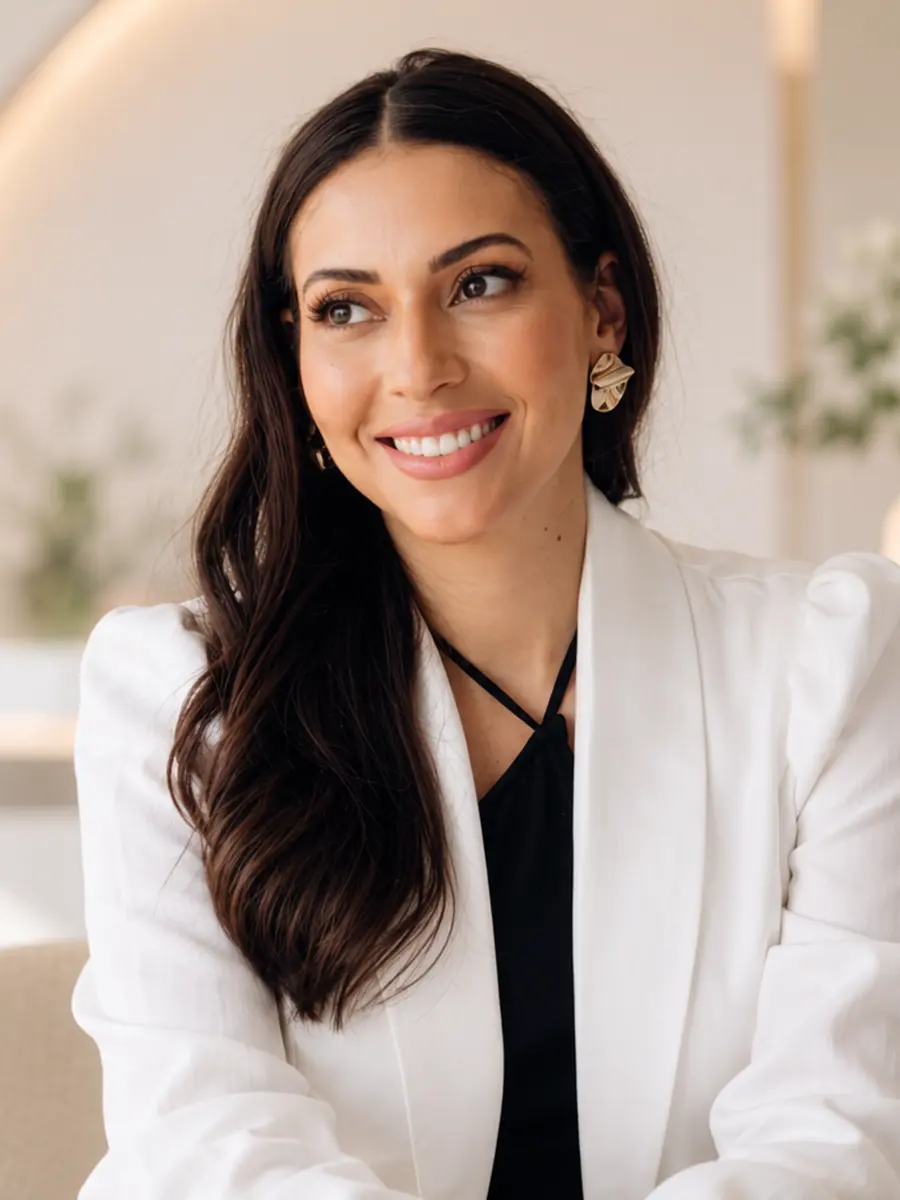
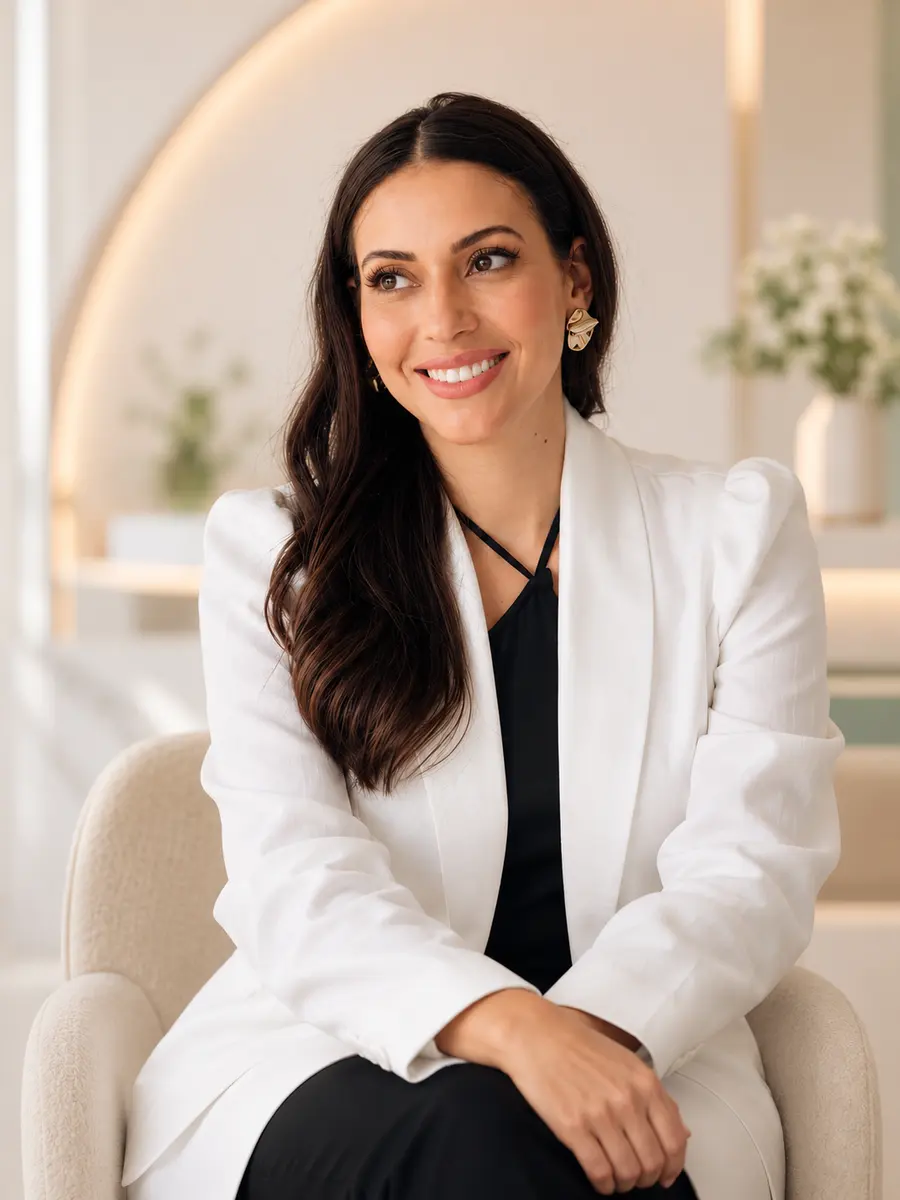
auto: 2026-11-03 20:37:51 (7 arquivo(s))

diff --git a/src/components/sections/Hero.tsx b/src/components/sections/Hero.tsx
@@ -43,14 +43,14 @@ const ordem = (i: number) => ({ '--i': i }) as CSSProperties;
  * - desktop e tablet deitado: camada de fundo absoluta, 16:9 em cover, que
  *   comeca ABAIXO do menu flutuante (top 88px), para o menu nao cobrir o
  *   rosto (nov/2026); o topo da foto esfuma no creme (.hero-foto-desce);
- * - celular e tablet em pe: recorte vertical 3:4 abaixo do texto, com o topo
- *   em arco.
+ * - celular e tablet em pe: foto vertical propria (3:4) em tela cheia, abaixo
+ *   do menu, com o texto centralizado sobre um veu creme na base (nov/2026).
  *
  * E o LCP: fetchPriority alto, sem lazy, e preload no <head> (app/page.tsx).
  */
 function HeroFoto() {
   return (
-    <div className="hero-arco hero-foto-desce relative mx-6 mb-14 aspect-[3/4] overflow-hidden sm:mx-8 sm:max-w-[520px] hl:absolute hl:inset-x-0 hl:bottom-0 hl:top-[88px] hl:m-0 hl:max-w-none hl:aspect-auto hl:rounded-none">
+    <div className="hero-foto-desce absolute inset-x-0 bottom-0 top-14 overflow-hidden hl:top-[88px]">
       <picture>
         <source media={MEDIA_EMPILHADO} type="image/avif" srcSet={`${imagem.mobile}.avif`} />
         <source media={MEDIA_EMPILHADO} type="image/webp" srcSet={`${imagem.mobile}.webp`} />
@@ -62,7 +62,7 @@ function HeroFoto() {
           width={imagem.width}
           height={imagem.height}
           fetchPriority="high"
-          className="hero-foto h-full w-full object-cover object-[50%_20%] hl:object-[72%_10%] hlg:object-[70%_10%]"
+          className="hero-foto h-full w-full object-cover object-[50%_0%] hl:object-[72%_10%] hlg:object-[70%_10%]"
         />
       </picture>
     </div>
@@ -71,8 +71,8 @@ function HeroFoto() {
 
 /**
  * Hero: foto de fundo com a Dra. Natalia no terco direito e o texto a
- * esquerda, direto sobre a parede clara da foto — sem veu nem desfoque, por
- * pedido da clinica (out/2026). No mobile: texto em cima, foto embaixo.
+ * esquerda, com um veu branco suave so sob o texto. No mobile: foto vertical
+ * em tela cheia e o texto centralizado na base, sobre um veu creme.
  *
  * Sem `Reveal`: a entrada e CSS puro (@keyframes). O `Reveal` gravaria
  * `style="opacity:0"` no HTML estatico e atrasaria o LCP ate a hidratacao.
@@ -84,19 +84,19 @@ export function Hero() {
   return (
     <section
       id="inicio"
-      className="relative isolate overflow-hidden bg-cream hl:flex hl:min-h-[clamp(640px,100svh,920px)] hl:items-center"
+      className="relative isolate flex min-h-[100svh] flex-col justify-end overflow-hidden bg-cream hl:min-h-[clamp(640px,100svh,920px)] hl:flex-row hl:items-center hl:justify-start"
     >
-      <div className="relative z-10 mx-auto w-full max-w-[1200px] px-6 pb-10 pt-[104px] sm:px-8 hl:pb-16 hl:pt-[120px] hlg:px-12 paisagem:pb-8 paisagem:pt-[96px]">
-        <div className="max-w-[560px] hl:max-w-none">
+      <div className="relative z-10 mx-auto w-full max-w-[1200px] px-6 pb-8 pt-[max(38svh,330px)] text-center sm:px-8 hl:pb-16 hl:pt-[120px] hl:text-left hlg:px-12 paisagem:pb-8 paisagem:pt-[96px]">
+        <div className="mx-auto max-w-[560px] hl:mx-0 hl:max-w-none">
           <h1
-            className="hero-entra text-[2.125rem] font-bold leading-[1.08] text-ink hl:text-[2.75rem] hlg:text-[clamp(2.75rem,3.9vw,3.5rem)] paisagem:text-[clamp(1.875rem,3.6vw,3.25rem)]"
+            className="hero-entra text-[1.75rem] font-bold leading-[1.12] text-ink sm:text-[2.5rem] hl:text-[2.75rem] hlg:text-[clamp(2.75rem,3.9vw,3.5rem)] paisagem:text-[clamp(1.875rem,3.6vw,3.25rem)]"
             style={ordem(0)}
           >
             <Linhas linhas={hero.h1Linhas} destaque="text-magenta" />
           </h1>
 
           <p
-            className="hero-entra mt-8 text-[clamp(1rem,1.4vw,1.25rem)] font-light leading-[1.45] text-ink-muted paisagem:mt-5"
+            className="hero-entra mt-4 text-[0.9rem] font-light leading-[1.55] sm:text-[1.0625rem] text-ink-muted hl:mt-8 hl:text-[clamp(1rem,1.4vw,1.25rem)] hl:leading-[1.45] paisagem:mt-5"
             style={ordem(1)}
           >
             <Linhas linhas={hero.textoLinhas} destaque="font-medium text-ink" />
@@ -104,7 +104,7 @@ export function Hero() {
 
           {/* CTA unico de conversao (WhatsApp, com icone de agenda). O 2o botao
               do print ("Conheca a Experiencia Lien") saiu a pedido (out/2026). */}
-          <div className="hero-entra mt-10 flex flex-col gap-4 sm:flex-row sm:items-center paisagem:mt-7" style={ordem(2)}>
+          <div className="hero-entra mt-6 flex flex-col items-center gap-4 sm:flex-row sm:justify-center hl:mt-10 hl:justify-start paisagem:mt-7" style={ordem(2)}>
             <WhatsAppButton
               origem="hero"
               variante="capsula"
@@ -124,6 +124,12 @@ export function Hero() {
       <div
         aria-hidden="true"
         className="pointer-events-none absolute inset-0 z-[1] hidden bg-[linear-gradient(90deg,rgba(255,255,255,.72),rgba(255,255,255,.55)_32%,rgba(255,255,255,.2)_48%,rgba(255,255,255,0)_58%)] hl:block"
+      />
+      {/* Mobile: veu creme na base, sob o texto centralizado (claro e limpo,
+          sem desfoque); o rosto, no alto, fica livre. */}
+      <div
+        aria-hidden="true"
+        className="pointer-events-none absolute inset-0 z-[1] bg-[linear-gradient(180deg,rgba(250,248,246,0)_34%,rgba(250,248,246,.72)_52%,rgba(250,248,246,.93)_68%,#FAF8F6_86%)] hl:hidden"
       />
       <HeroFoto />
     </section>

diff --git a/app/globals.css b/app/globals.css
@@ -168,17 +168,11 @@
     }
   }
 
-  /* Foto do mobile: topo em arco (raio = metade da largura), eco do sorriso
-     da marca. Numa caixa 3:4, metade da largura = 37,5% da altura. */
-  /* Hero (desktop): a foto comeca abaixo do menu e esfuma no creme no topo. */
-  @media (min-width: 1280px), (min-width: 768px) and (orientation: landscape) {
-    .hero-foto-desce {
-      -webkit-mask-image: linear-gradient(to bottom, transparent, #000 56px);
-      mask-image: linear-gradient(to bottom, transparent, #000 56px);
-    }
-  }
-  .hero-arco {
-    border-radius: 50% 50% 28px 28px / 37.5% 37.5% 28px 28px;
+
+  /* Hero: a foto comeca abaixo do menu e esfuma no creme no topo. */
+  .hero-foto-desce {
+    -webkit-mask-image: linear-gradient(to bottom, transparent, #000 56px);
+    mask-image: linear-gradient(to bottom, transparent, #000 56px);
   }
 
   /* Entrada em sequencia: --i e a posicao do elemento (atraso de 80ms cada). */

diff --git a/RELATORIO-ALTERACOES.md b/RELATORIO-ALTERACOES.md
@@ -1127,3 +1127,21 @@ As passagens para os fundos com ondas tinham corte reto. Agora entra um degradê
 - **Sobre → Método:** no topo do Método, o cinza-claro do fim do Sobre (#F9FAFB) vai sumindo sobre as ondas.
 - **Método/Por onde começar → Tratamentos:** na base, as ondas somem no branco do início de Tratamentos.
 - **Experiência → Equipe:** na base, as ondas somem no branco da Equipe.
+
+---
+
+## Hero mobile: foto vertical própria, texto centralizado e véu creme (nov/2026)
+
+Vale para o celular e o tablet em pé, isto é, o layout empilhado. O desktop não mudou.
+
+- **Foto:** `assets/hero/hero-mobile.png` ("Retrato elegante em ambiente acolhedor", 1086×1448, 3:4) virou o `hero-lien-mobile-900` pelo `npm run hero` (900×1200, cortado a partir do topo). O recorte da foto de desktop deixou de ser usado no celular.
+- **Layout:**
+  - A foto ocupa a tela inteira, a partir de 56px, abaixo do menu, com o topo esfumado (`.hero-foto-desce`, agora em todos os tamanhos).
+  - O hero tem `100svh`, e o texto fica centralizado na base.
+  - O topo do texto fica em `max(38svh, 330px)`, para não cobrir o rosto em telas baixas.
+- **Véu:** creme (#FAF8F6), de transparente em 34% a 93% em 68% e opaco em 86%. Não tem desfoque e deixa o rosto livre.
+- **Tipografia:**
+  - H1 de 28px no celular e 40px no tablet.
+  - Parágrafo de 14,4px no celular e 17px no tablet.
+  - Botão largo, centralizado.
+- **Removido:** o topo em arco (`.hero-arco`), que deixou de ser usado.
